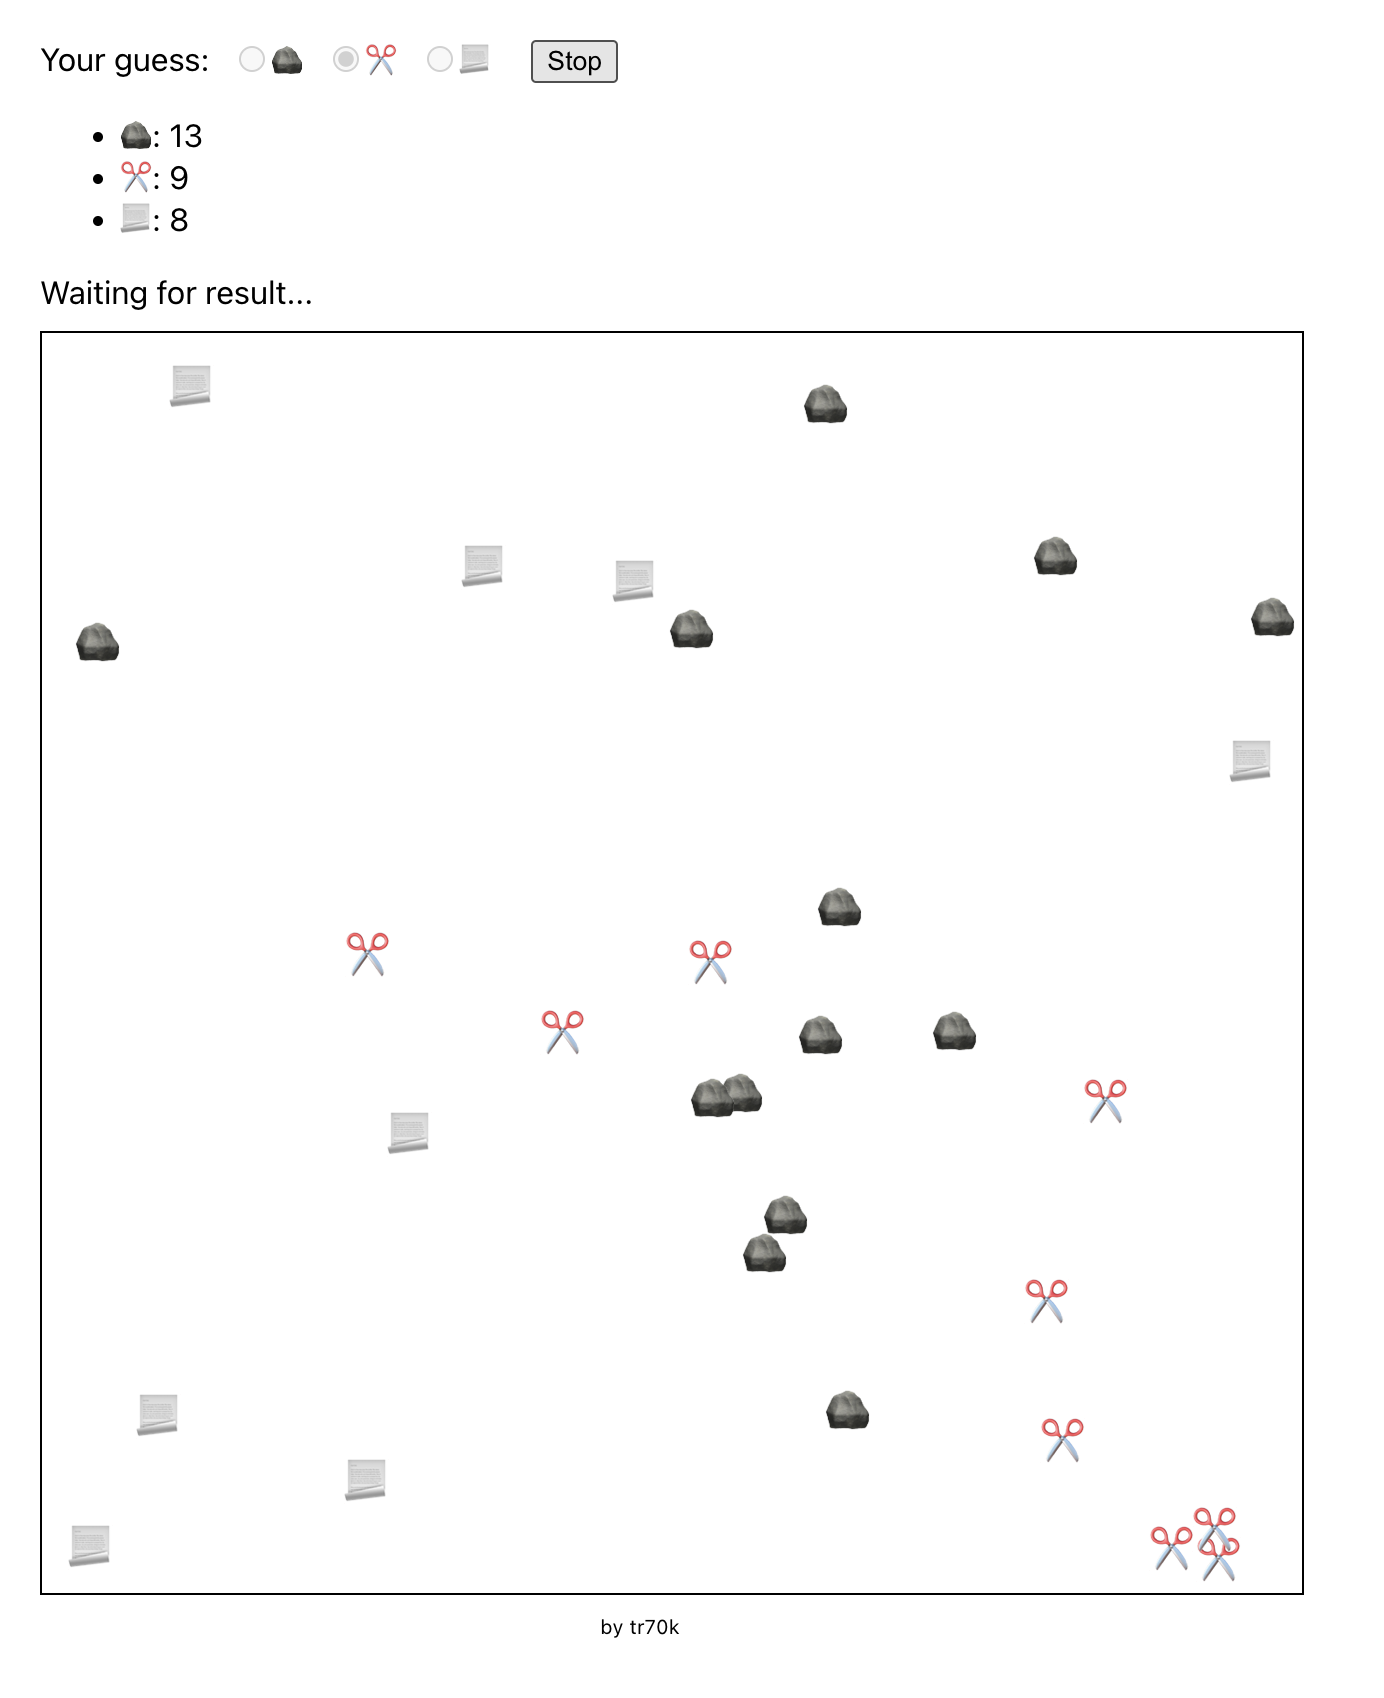
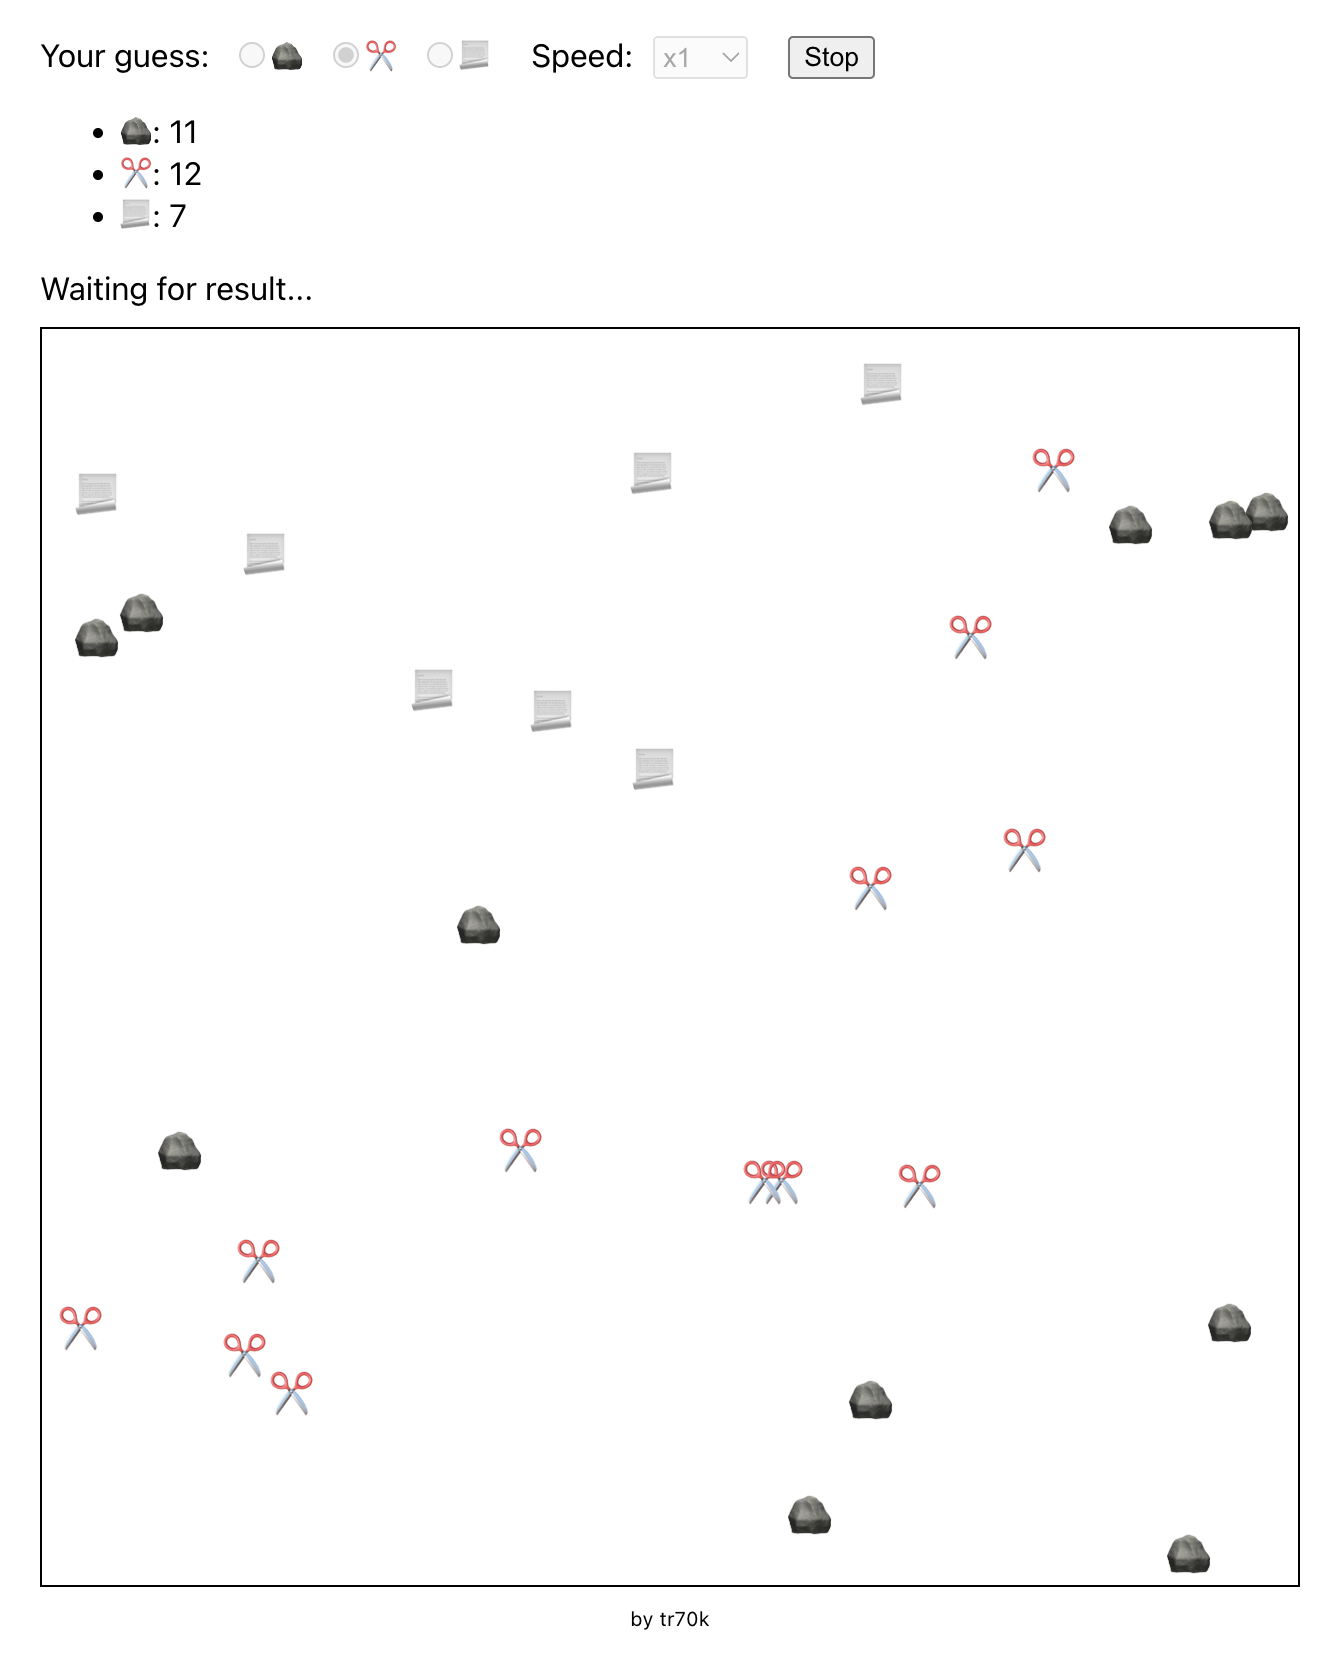
add speed select

diff --git a/src/App.tsx b/src/App.tsx
@@ -1,11 +1,12 @@
 import React, {useState} from 'react';
 import './App.css';
 import { Game } from './components/Game';
-import { ICONS, ITEM_TYPES, ItemType } from './components/utils';
+import { ICONS, ITEM_TYPES, ItemType, Speed } from './components/utils';
 
 function App() {
   const [isRunning, setIsRunning] = useState(false)
   const [guess, setGuess] = useState<ItemType | null>(null)
+  const [speed, setSpeed] = useState<Speed>(1)
 
   return (
     <div className="App">
@@ -21,11 +22,25 @@ function App() {
             ))
           }
         </div>
-        <button onClick={() => setIsRunning(!isRunning)} disabled={!guess}>
-          {isRunning ? 'Stop' : 'Start'}
-        </button>
+        <div className="Header">
+          Speed:
+          <select
+            name="speed"
+            value={speed}
+            onChange={(e) => setSpeed(+e.target.value as Speed)}
+            disabled={isRunning}
+          >
+            <option value="0.5">x0.5</option>
+            <option value="1">x1</option>
+            <option value="1.5">x1.5</option>
+            <option value="2">x2</option>
+          </select>
+          <button onClick={() => setIsRunning(!isRunning)} disabled={!guess}>
+            {isRunning ? 'Stop' : 'Start'}
+          </button>
+        </div>
       </div>
-      {isRunning && <Game guess={guess} />}
+      {isRunning && <Game guess={guess} speed={speed} />}
     </div>
   );
 }

diff --git a/src/components/Game.tsx b/src/components/Game.tsx
@@ -11,9 +11,10 @@ import {
   randomMove,
   shuffle,
   ItemType,
+  Speed,
 } from './utils';
 
-const useGame = () => {
+const useGame = (step = 2) => {
   const [items, setItems] = useState(() => {
     const randomItems = [
       ...generateItems(ITEM_TYPES.ROCK, ITEMS_COUNT),
@@ -30,7 +31,7 @@ const useGame = () => {
       for (let i = 0; i < updatedItems.length; i++) {
         updatedItems[i] = {
           ...updatedItems[i],
-          position: randomMove(updatedItems[i].position)
+          position: randomMove(updatedItems[i].position, step)
         }
 
         for (let j = i + 1; j < updatedItems.length; j++) {
@@ -56,7 +57,7 @@ const useGame = () => {
     })
 
     setTimeout(tick, TICK_DELAY)
-  }, [])
+  }, [step])
 
   useEffect(() => {
     setTimeout(tick, TICK_DELAY)
@@ -69,12 +70,13 @@ const useGame = () => {
 
 type Props = {
   guess?: ItemType | null
+  speed?: Speed
 }
 
-export const Game = ({ guess }: Props) => {
+export const Game = ({ guess, speed = 0.5 }: Props) => {
   const wrapperRef = useRef<HTMLDivElement>(null)
   const [scale, setScale] = useState(1)
-  const { items } = useGame()
+  const { items } = useGame(3 - speed)
 
   useEffect(() => {
     function handleResize() {

diff --git a/src/components/utils.ts b/src/components/utils.ts
@@ -16,6 +16,8 @@ export const ITEM_TYPES = {
 export type ItemTypeKey = keyof typeof ITEM_TYPES
 export type ItemType = typeof ITEM_TYPES[ItemTypeKey]
 
+export type Speed = 0.5 | 1 | 1.5 | 2
+
 export const ICONS: Record<ItemType, string> = {
   [ITEM_TYPES.ROCK]: '🪨',
   [ITEM_TYPES.PAPER]: '✂',
@@ -63,10 +65,10 @@ export const generateItems = (itemType: ItemType, count: number): Item[] => {
   }))
 }
 
-export const randomMove = (position: Position): Position => {
+export const randomMove = (position: Position, step = 2): Position => {
   return {
-    x: Math.min(Math.max(position.x + getRandomInt(-ITEM_SIZE, ITEM_SIZE), MIN_POSITION), MAX_POSITION),
-    y: Math.min(Math.max(position.y + getRandomInt(-ITEM_SIZE, ITEM_SIZE), MIN_POSITION), MAX_POSITION),
+    x: Math.min(Math.max(position.x + getRandomInt(-ITEM_SIZE / step, ITEM_SIZE / step), MIN_POSITION), MAX_POSITION),
+    y: Math.min(Math.max(position.y + getRandomInt(-ITEM_SIZE / step, ITEM_SIZE / step), MIN_POSITION), MAX_POSITION),
   }
 }
 

diff --git a/src/App.css b/src/App.css
@@ -13,6 +13,10 @@
   margin-right: 10px;
 }
 
+.Header button {
+  margin-left: 10px;
+}
+
 .Result {
   margin-bottom: 10px;
 }
